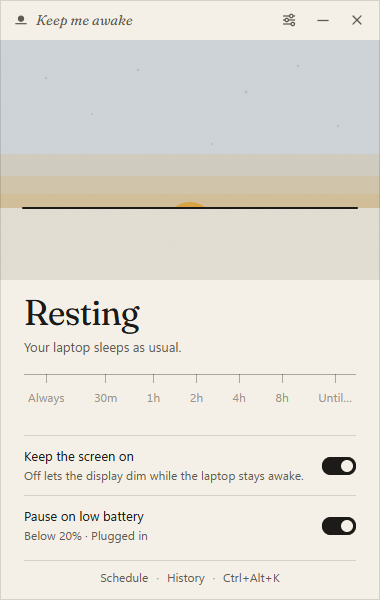
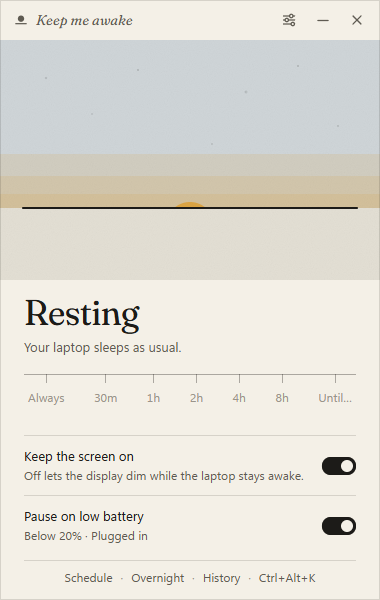
docs: updates in the guide, releasing and security posture
Guide: an Updates section (when it asks, where a new version shows, how
it installs, that pre-releases are never offered), the switch in the
Settings table, the tray line, the doors with Overnight and a waiting
update, the guard's promise on the Always line and the Keep it up
whisper. Architecture: the update thread and its sequence, the two
commands, the plugin order, and Security now says there is one outbound
request a day, verified, off with the switch. Releasing: how updates are
signed and where each piece lives, the key's custody, and that losing it
strands every install. Resource budget: the thread, the request and the
measured cost on Windows. Design, roadmap and the changelog follow.

Screenshots recaptured from the real window on Windows: every Home shot
(the doors now include Overnight) and new ones of an update on Home and
in About.

Changed region(s): [[0.1737, 0.93, 0.8395, 0.99]]

diff --git a/docs/guide.md b/docs/guide.md
@@ -13,7 +13,7 @@ flowchart TB
         ST["Status · Resting / Awake / Paused + one line of detail"]
         R["Rule · Always · 30m · 1h · 2h · 4h · 8h · Until…"]
         RW["Rows · Keep the screen on · Pause on low battery"]
-        D["Doors · Schedule · History · Ctrl+Alt+K"]
+        D["Doors · Schedule · Overnight · History · Ctrl+Alt+K"]
     end
     T --> S --> ST --> R --> RW --> D
 ```
@@ -39,7 +39,8 @@ in the morning the awake line adds a second sentence.
 | ------------------------- | ------- | ------------------------------------------------------------- |
 | resting                   | Resting | `Your laptop sleeps as usual.`                                |
 | resting, schedule waiting | Resting | `Your laptop sleeps as usual. Awake again at 9:00 am.`        |
-| always                    | Awake   | `Until you say otherwise.`                                    |
+| always                    | Awake   | `Until you say otherwise, or 6h untouched.`                   |
+| always, guard off or kept | Awake   | `Until you say otherwise.`                                    |
 | always, nobody around     | Awake   | `Nobody here for 6 hours. Resting at 3:12 am.` **Keep it up** |
 | timed                     | Awake   | `Until 5:30 pm · 1h 30m left`                                 |
 | timed, sunset near        | Awake   | `The sun sets in 5 minutes.` **Give it another 30m**          |
@@ -60,18 +61,19 @@ is longer than the warning (a 2-minute timer never warns), and not while a
 schedule window that lasts longer than the timer is open, since the sun
 stays up when the timer ends.
 
-**Overnight guard.** Always is the easiest session to forget. When an
+**Overnight guard.** Always is the easiest session to forget, so its line
+says how it can end: `Until you say otherwise, or 6h untouched.` When an
 Always session has had no keyboard, mouse or trackpad input for 6 hours
 (Settings → Waking → **Overnight guard**: Off · 4h · 6h · 8h), the sun asks
 once: the line turns to `Nobody here for 6 hours. Resting at 3:12 am.` with
 a link, **Keep it up**; the tray (the menu bar on a Mac) gains the same item
 and a toast says it if the window is closed. Then, within ten minutes:
 
-| Happens                         | Result                                                        |
-| ------------------------------- | ------------------------------------------------------------- |
-| any input                       | the question goes away quietly; the 6 hours start again       |
-| **Keep it up** (window or tray) | the guard leaves this session alone until it ends             |
-| nothing                         | the session ends, the laptop sleeps as usual, history: `idle` |
+| Happens                         | Result                                                                           |
+| ------------------------------- | -------------------------------------------------------------------------------- |
+| any input                       | the question goes away quietly; the 6 hours start again                          |
+| **Keep it up** (window or tray) | `Kept up. It will not ask again this time.`; the line drops the 6h until it ends |
+| nothing                         | the session ends, the laptop sleeps as usual, history: `idle`                    |
 
 The guard only reads how long since the last input; it never sends any.
 Timers and schedule windows end on their own and are never asked about. A
@@ -116,11 +118,14 @@ The hint under the battery row shows the live reading ("Plugged in · 100%").
 
 ### Doors
 
-The line at the foot, `Schedule · History · Ctrl+Alt+K`, opens Settings at
-that section: the schedule, the log of when the sun was up, and the hotkey,
-which shows the combination it is set to (`Hotkey` when it is off; `⌥⌘K` on
-a Mac). The settings button in the title bar (the sliders) opens Settings
-where you left it. The line hides when the window is shorter than 560 px.
+The line at the foot, `Schedule · Overnight · History · Ctrl+Alt+K`, opens
+Settings at that section: the schedule, the overnight guard (in Waking),
+the log of when the sun was up, and the hotkey, which shows the combination
+it is set to (`Hotkey` when it is off; `⌥⌘K` on a Mac). Hover one for what
+is behind it. When an update is ready the line leads with it,
+`Update 0.3.1`, opening About, and the hotkey door makes room. The settings
+button in the title bar (the sliders) opens Settings where you left it. The
+line hides when the window is shorter than 560 px.
 
 ## Keyboard
 
@@ -147,6 +152,7 @@ the app has no Dock icon and no place in Cmd-Tab: it is a menu bar app.
 |                               | while a schedule window is open: Skip today's schedule / Back on schedule |
 |                               | near the end of a timer: Give it another 30m                              |
 |                               | while the overnight guard asks: Keep it up                                |
+|                               | when an update is ready: `Update ready: 0.3.1` under the status line      |
 | hover                         | tooltip with the same status line as the menu                             |
 
 Icon states: sun above the line (awake), sun set (resting), bar across the sun
@@ -180,7 +186,8 @@ dark menu bar itself. Nothing to set.
 | Hotkey        | Hotkey                     | `Ctrl+Alt+K` by default. Change records a new one; Off removes it         |
 | History       |                            | the last 30 times the sun was up; see below                               |
 | Tips          |                            | the keyboard and tray table                                               |
-| About         |                            | version, how it works, author, Source, Quit                               |
+| About         | Check for updates daily    | once a day, from GitHub; on by default. See Updates below                 |
+|               |                            | version, how it works, author, Source, Quit                               |
 
 ![Settings → Waking, Paper](assets/overnight-settings-light.png) ![Settings → Waking, Night](assets/overnight-settings-dark.png)
 
@@ -259,6 +266,28 @@ hot key on macOS), which only listens. Nothing is ever typed into other
 applications.
 
 ![Settings → Hotkey, Paper](assets/hotkey-light.png) ![Settings → Hotkey, Night](assets/hotkey-dark.png)
+
+## Updates
+
+About half a minute after launch, and then once a day, the app asks GitHub
+whether a newer release exists (Settings → About → **Check for updates
+daily**, on by default). It is the only request the app makes; with the
+switch off it makes none. Nothing is installed without a click.
+
+| When                         | Where                                                                      |
+| ---------------------------- | -------------------------------------------------------------------------- |
+| a newer release is found     | Home's line leads with `Update 0.3.1`; the tray adds `Update ready: 0.3.1` |
+| the next time a window opens | once per version, a whisper: `A new version is up: 0.3.1.`                 |
+| Settings → About             | `0.3.1 is available · Install and restart`                                 |
+| you click it                 | `Downloading… 42%` over a hairline, then it installs and opens the new one |
+
+Every update is signed; one whose signature does not match the key built
+into the app is refused. On Windows the installer runs on its own, without
+questions, and the app comes back by itself. Only full releases are offered:
+pre-releases (such as 0.3.0) are never pushed to anyone. An offline check
+is not an error and says nothing; it tries again the next day.
+
+![An update on Home, Night](assets/update-home-dark.png) ![Settings → About with an update, Paper](assets/update-about-light.png)
 
 ## Where things are
 

diff --git a/docs/resource-budget.md b/docs/resource-budget.md
@@ -4,23 +4,36 @@
 
 ## Budget
 
-| Metric                         | Budget              | Windows (0.2, release)                | macOS (release)                            | Why                                                              |
-| ------------------------------ | ------------------- | ------------------------------------- | ------------------------------------------ | ---------------------------------------------------------------- |
-| Private memory, tray only      | ≤ 12 MB             | 5.7 MB (0.1: 5.3 MB)                  | **16 MB resting, 17 MB awake** (over)      | one native process, no webview                                   |
-| Private memory, window open    | ≤ 90 MB             | 5.4 MB app + WebView2                 | 26 MB app + 30 MB WebContent               | the system webview is the floor; the page is small               |
-| CPU while resting              | 0 wake-ups          | 0 ms CPU in 60 s                      | 0 ms CPU in 60 s                           | the engine (and, on Windows, theme) threads block in the kernel  |
-| CPU while awake                | 1 wake-up / 30 s    | 1 / 30 s                              | 20 ms CPU in 60 s (two polls)              | battery poll only                                                |
-| CPU while resting, schedule on | ≤ 1 wake-up / 5 min | by design                             | by design                                  | the next window start, re-checked so sleep cannot make it late   |
-| Threads at rest                | no polling threads  | 30 (Tauri, WebView2 loader, plugins)  | 14 resting, 18 awake                       | `keepmeawake-engine` (and `keepmeawake-theme`) sleep until woken |
-| CPU, window open, idle         | ≤ 0.1%              | idle                                  | 10 ms CPU in 30 s                          | no animation loops; 1 Hz clock only in a timed session           |
-| Binary                         | ≤ 12 MB             | 4.2 MB exe · 1.5 MB NSIS · 2.1 MB MSI | 4.1 MB binary · 4.0 MB `.app` · 2.0 MB DMG | `opt-level = "s"`, LTO, stripped                                 |
-| UI bundle (JS + CSS, gzip)     | ≤ 60 KB             | 30 KB + 3.7 KB (0.1: 28 KB + 3.5 KB)  | 32 KB + 3.8 KB (both, from the next build) | Svelte compiles away; no framework runtime                       |
-| Fonts                          | ≤ 160 KB            | 149 KB                                | 149 KB                                     | one family, two files, latin subset                              |
-| Cold open of the window        | ≤ 400 ms            | under 1 s                             | 0.86 s from a cold launch                  | webview spin-up + first paint                                    |
+| Metric                         | Budget              | Windows (0.2, release)                                       | macOS (release)                                  | Why                                                                         |
+| ------------------------------ | ------------------- | ------------------------------------------------------------ | ------------------------------------------------ | --------------------------------------------------------------------------- |
+| Private memory, tray only      | ≤ 12 MB             | 4.5 MB after an update check (0.2: 5.7 MB)                   | **16 MB resting, 17 MB awake** (over)            | one native process, no webview                                              |
+| Private memory, window open    | ≤ 90 MB             | 5.4 MB app + WebView2                                        | 26 MB app + 30 MB WebContent                     | the system webview is the floor; the page is small                          |
+| CPU while resting              | 0 wake-ups          | 0 ms CPU in 60 s                                             | 0 ms CPU in 60 s                                 | the engine (and, on Windows, theme) threads block in the kernel             |
+| CPU while awake                | 1 wake-up / 30 s    | 1 / 30 s                                                     | 20 ms CPU in 60 s (two polls)                    | battery poll only                                                           |
+| CPU while resting, schedule on | ≤ 1 wake-up / 5 min | by design                                                    | by design                                        | the next window start, re-checked so sleep cannot make it late              |
+| Threads at rest                | no polling threads  | 30 (Tauri, WebView2 loader, plugins)                         | 14 resting, 18 awake                             | `keepmeawake-engine` (and `keepmeawake-theme`) sleep until woken            |
+| CPU, window open, idle         | ≤ 0.1%              | idle                                                         | 10 ms CPU in 30 s                                | no animation loops; 1 Hz clock only in a timed session                      |
+| Binary                         | ≤ 12 MB             | 5.6 MB exe · 2.2 MB NSIS · 3.0 MB MSI (0.2: 4.2 · 1.5 · 2.1) | 4.1 MB binary · 4.0 MB `.app` · 2.0 MB DMG (0.2) | `opt-level = "s"`, LTO, stripped; the updater's TLS is most of 0.3's growth |
+| UI bundle (JS + CSS, gzip)     | ≤ 60 KB             | 30 KB + 3.7 KB (0.1: 28 KB + 3.5 KB)                         | 32 KB + 3.8 KB (both, from the next build)       | Svelte compiles away; no framework runtime                                  |
+| Fonts                          | ≤ 160 KB            | 149 KB                                                       | 149 KB                                           | one family, two files, latin subset                                         |
+| Cold open of the window        | ≤ 400 ms            | under 1 s                                                    | 0.86 s from a cold launch                        | webview spin-up + first paint                                               |
 
 The sunset warning adds one engine wake per timed session, at the warning
 moment, and nothing in the window: the status line uses the 1 Hz clock a
 timed session already runs.
+
+Auto-update adds one thread, `keepmeawake-update`, asleep between checks:
+it wakes about 30 s after launch, then at most every 6 h to compare
+wall-clock times (a laptop's sleep stops the clock a thread sleeps on), and
+makes one HTTPS request a day, none with the switch off. The window adds
+nothing: the update arrives as an event, and progress is sent once per
+percent, not per chunk. The updater pulls in an HTTP client and TLS; this is
+the one feature allowed to cost that. Measured on Windows (release,
+2026-11-07): the exe grows from 4.2 MB to 5.6 MB and the NSIS installer is
+2.2 MB, MSI 3.0 MB; in the tray after its first check the app is 4.5 MB
+private with 13 threads and 0 ms CPU in an idle minute. The check runs on a
+current-thread runtime of its own: Tauri's shared runtime would have started
+a worker per core for it (45 threads, 6.4 MB on a many-core machine).
 
 The overnight guard adds no timer and no thread. While an Always session
 runs it reads the idle time once per battery poll (`GetLastInputInfo` on

diff --git a/docs/architecture.md b/docs/architecture.md
@@ -173,7 +173,7 @@ stretch was still paused for the battery as it ended.
 
 `app/mod.rs` builds the Tauri app. Plugins in order: single-instance (must be
 first), autostart (passes `--hidden`), opener, notification, global-shortcut,
-log. `setup` loads settings and the session log (marking an entry left open by
+updater, log. `setup` loads settings and the session log (marking an entry left open by
 the last run as `sleep`), starts the engine with its listener already
 attached (`Engine::start_with`, so the first events are heard), creates the
 tray, registers the hotkey (`app/hotkey.rs`), and opens the window unless
@@ -183,6 +183,32 @@ tray, emits `snapshot` to the window and hands the other events to
 `app/notify.rs` for toasts.
 `RunEvent::ExitRequested` with no exit code (the last window closed) is vetoed
 so the app lives in the tray.
+
+`app/update.rs` starts a thread, `keepmeawake-update`, that asks the updater
+plugin about 30 s after launch and then 24 h after the last check
+(`last_update_check_unix_ms`), sleeping at most 6 h at a time so a laptop
+that slept through the due time catches up within hours. With
+`check_for_updates` off it never asks. A newer release is kept in
+`AppState.update`, sent as the `update` event and shown by the tray.
+`install_update` checks again, downloads with `update-progress` events,
+lets the plugin verify the signature against the public key in
+`tauri.conf.json`, installs and relaunches (`AppHandle::restart`). On
+Windows the plugin runs the passive NSIS installer and exits the app
+itself, so `on_before_exit` shuts the engine down first.
+
+```mermaid
+sequenceDiagram
+    participant T as update thread
+    participant G as GitHub Releases
+    participant UI as Window
+    T->>G: GET releases/latest/download/latest.json (once a day)
+    G-->>T: version, per-platform URL and signature
+    T-->>UI: event "update" · tray "Update ready"
+    UI->>T: invoke install_update
+    T->>G: download the installer or .app.tar.gz
+    T-->>UI: event "update-progress" (per percent)
+    T->>T: verify signature, install, restart
+```
 
 ## IPC
 
@@ -212,6 +238,8 @@ sequenceDiagram
 | `quit_app`        |                        |                                                                                         |
 | `extend_session`  |                        | `Snapshot`: a timed session's end moved 30 minutes later                                |
 | `keep_it_up`      |                        | `Snapshot`: the overnight guard leaves this Always session alone                        |
+| `get_update`      |                        | `UpdateInfo \| null`: a newer release the daily check found                             |
+| `install_update`  |                        | nothing on success (the app relaunches); events `update-progress`; an error string      |
 | `get_history`     |                        | `History`: the session log, oldest entry first                                          |
 | `clear_history`   |                        | `History` (empty), also written to disk                                                 |
 
@@ -248,9 +276,13 @@ where it last was.
 ## Security posture
 
 - Runs as the signed-in user, never elevated.
-- No network access. Fonts and assets are bundled. Toasts go to the local
-  notification centre; they are sent from Rust, so the webview has no
-  notification permission.
+- One outbound request a day, from Rust: HTTPS to GitHub Releases for
+  `latest.json`, and the download when you click Install. Off with
+  **Check for updates daily**, and then there is no network access at all.
+  Updates are verified against the public key built into the app before
+  they run; the webview has no updater or process permission. Fonts and
+  assets are bundled. Toasts go to the local notification centre; they are
+  sent from Rust, so the webview has no notification permission.
 - One settings file and one log, per user (see **On disk**).
 - A handful of OS calls, one file per OS: on Windows power requests, power
   status, the last input time, two registry reads and a registry change

diff --git a/docs/releasing.md b/docs/releasing.md
@@ -20,21 +20,45 @@ flowchart LR
     bump --> commit["git commit<br/>chore(release): vx.y.z"]
     commit --> tag["git tag vx.y.z<br/>git push --tags"]
     tag --> ci["release.yml<br/>windows-latest · macos-latest"]
-    ci --> draft["Draft GitHub Release<br/>NSIS + MSI · DMG + .app.tar.gz<br/>notes from CHANGELOG"]
-    draft --> publish["Review, publish"]
+    ci --> draft["Draft GitHub Release<br/>NSIS + MSI · DMG + .app.tar.gz<br/>.sig files · latest.json<br/>notes from CHANGELOG"]
+    draft --> publish["Review, publish<br/>(pre-release: no one is offered it)"]
 ```
 
-## Signing
+## Updates
+
+Installs update themselves from `latest.json` on the newest **full**
+release (`releases/latest/download/latest.json`); a pre-release is never
+offered. Each update is signed with the updater key and verified against
+the public key in `src-tauri/tauri.conf.json` before it runs.
+
+| Piece                 | Where                                                                                              |
+| --------------------- | -------------------------------------------------------------------------------------------------- |
+| public key            | `plugins.updater.pubkey` in `tauri.conf.json`, committed                                           |
+| private key, password | repository secrets `TAURI_SIGNING_PRIVATE_KEY`, `_PASSWORD`; the files live outside the repo       |
+| signed artifacts      | `tauri.updater.conf.json` (`createUpdaterArtifacts`), passed by `release.yml` with `--config`      |
+| `latest.json`         | written by `tauri-action` (`includeUpdaterJson`), both platforms merged, NSIS preferred on Windows |
+
+The release job fails early if either secret is missing. The overlay keeps
+local `npm run build` working without the key; to build signed artifacts
+locally, set both variables and run
+`npm run build -- --config src-tauri/tauri.updater.conf.json`.
+
+The key pair was made once with
+`npx tauri signer generate -w a path outside the repo`. Losing the private
+key means no install can verify a new update: keep a copy somewhere safe.
+Rotating it means shipping the new public key in a release signed with the
+old one first.
+
+## Signing installers
 
 Installers are unsigned until a certificate is in place, on both platforms.
 On macOS the bundle is signed ad hoc (`signingIdentity: "-"`), so the
 signature verifies but Gatekeeper still asks once (Privacy & Security → Open
 Anyway; see the guide);
 notarization needs an Apple Developer account and the `APPLE_*` secrets listed
-in [`specs/macos.md`](specs/macos.md). When one is, add
-`TAURI_SIGNING_PRIVATE_KEY` and `TAURI_SIGNING_PRIVATE_KEY_PASSWORD` as
-repository secrets and set `bundle.windows.certificateThumbprint`. The updater
-(roadmap) requires it.
+in [`specs/macos.md`](specs/macos.md). A Windows certificate goes in
+`bundle.windows.certificateThumbprint`. Neither is needed for updates, which
+carry their own signature.
 
 ## Channels
 

diff --git a/docs/design.md b/docs/design.md
@@ -96,11 +96,12 @@ or dark menu bar. No colour, so the sun's amber stays in the window.
 4. **Rule**: durations as stops on a hairline. The active stop has a filled
    dot and a doubled tick. "Until…" opens an inline time field.
 5. **Rows**: the two switches people flip daily.
-6. **Doors**: one quiet line, `Schedule · History · Ctrl+Alt+K`, each opening
-   Settings at its section. They are for what never announces itself: the
-   schedule is off until set, history only records, and the hotkey shows
-   its own combination, so the line says it exists. The sunset warning and
-   the overnight guard speak up when they act and need no door. The line
+6. **Doors**: one quiet line, `Schedule · Overnight · History · Ctrl+Alt+K`,
+   each opening Settings at its section, with a tooltip saying what is
+   behind it. The schedule is off until set, the guard is quiet until it
+   acts, history only records, and the hotkey shows its own combination, so
+   the line says each exists. A waiting update leads it (`Update 0.3.1`, in
+   full ink) and the hotkey door makes room: one line, always. The line
    gives way below 560 px of height, where the two rows need the room.
 
 Everything else is behind the settings button (sliders, not a gear: at

diff --git a/docs/roadmap.md b/docs/roadmap.md
@@ -44,7 +44,7 @@ timeline
 
 | Feature                                                         | Spec                                           | Layers                |
 | --------------------------------------------------------------- | ---------------------------------------------- | --------------------- |
-| Auto-update, signed, once a day, opt-out                        | [auto-update.md](specs/auto-update.md)         | app, ui, ci           |
+| Auto-update, signed, once a day, opt-out (built)                | [auto-update.md](specs/auto-update.md)         | app, ui, ci           |
 | Session history with how each session ended (built, unreleased) | [session-history.md](specs/session-history.md) | core, engine, app, ui |
 | Winget and Scoop                                                | [winget-scoop.md](specs/winget-scoop.md)       | ci, docs              |
 
